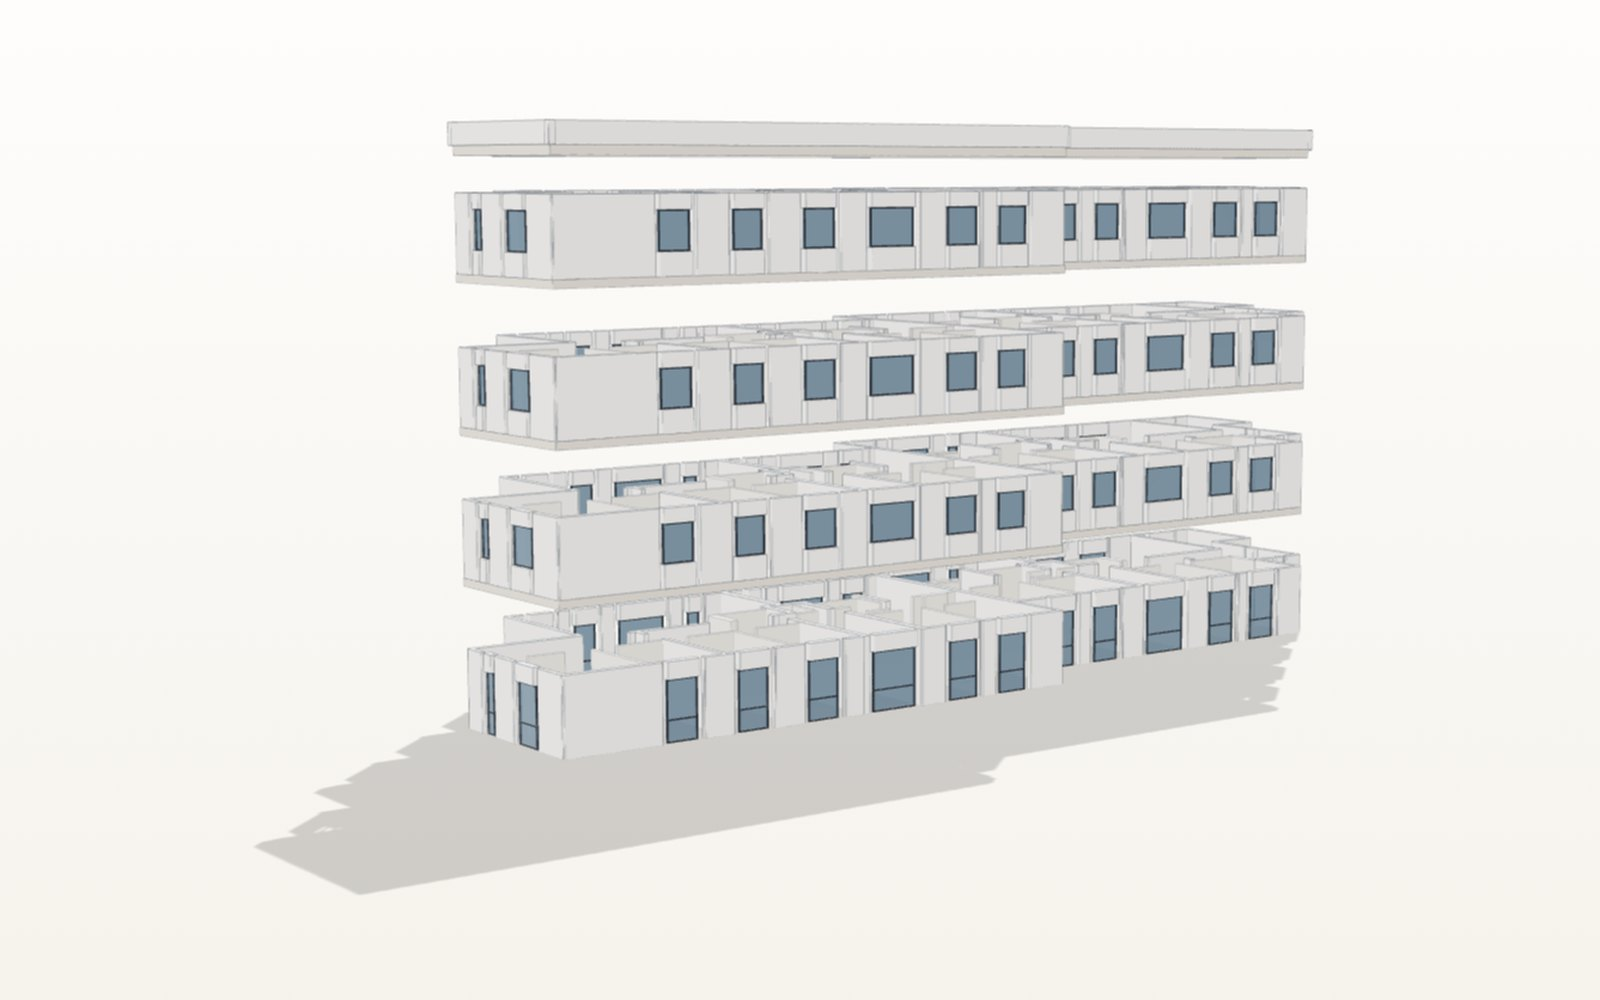
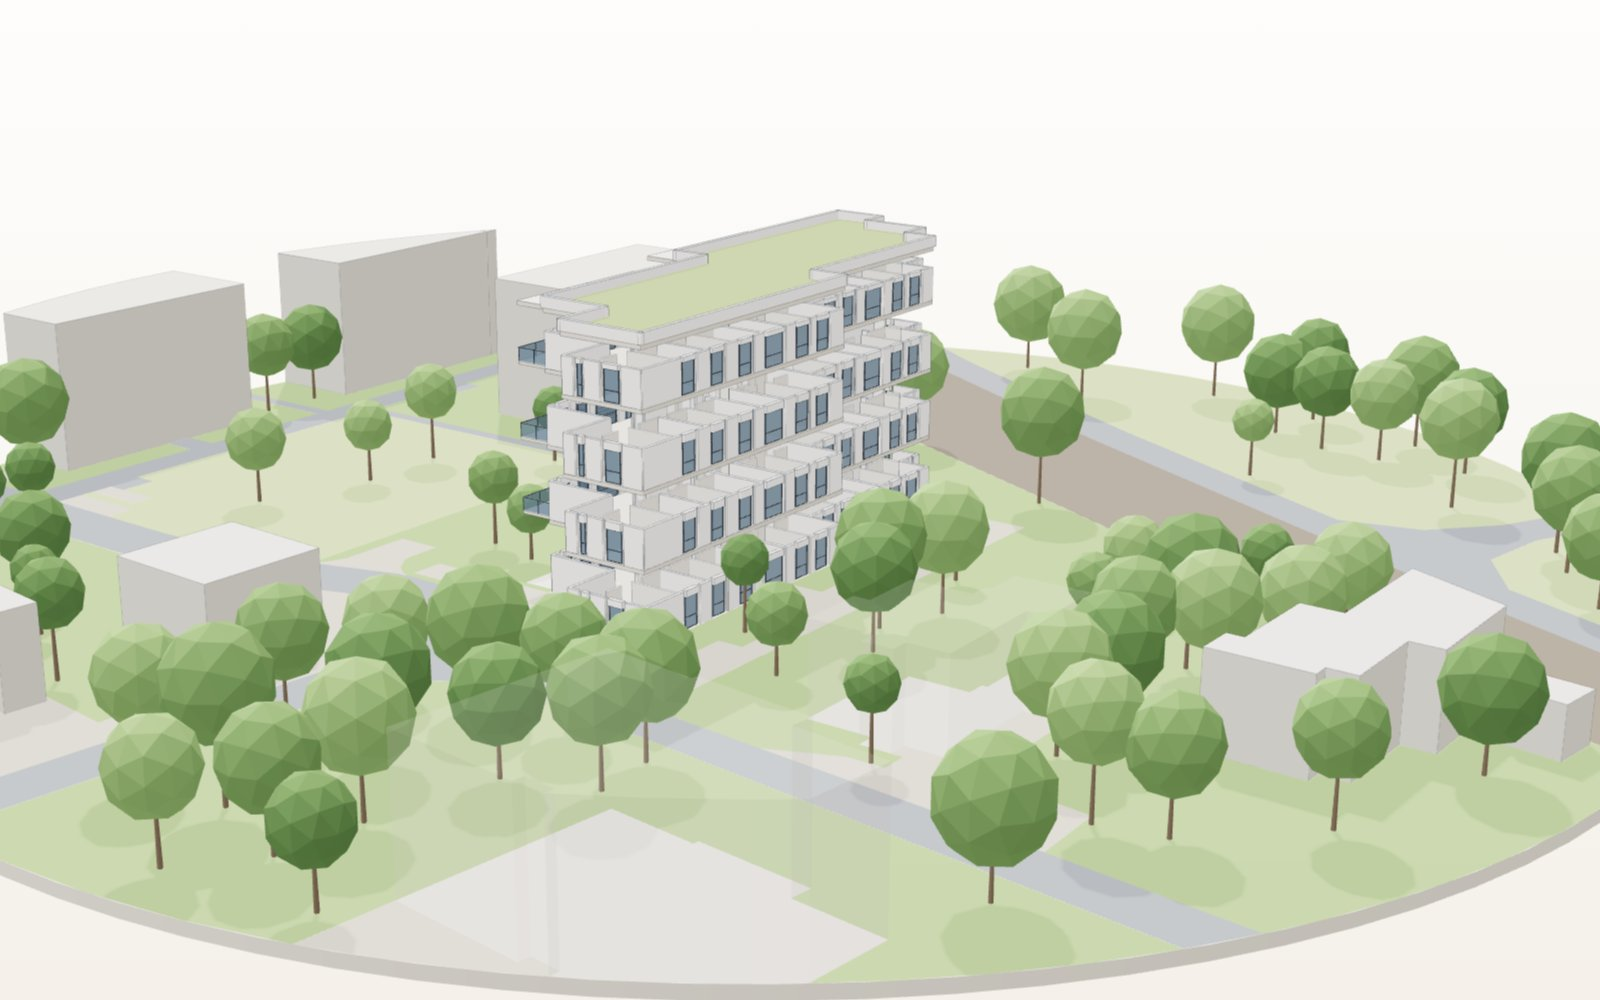
A4 like A12 (heights, south balconies, green roof); Architektur shows A14
A4 gets the storey heights of Schnitt A-A 759 (2.78 m, roof +10.92),
room-height windows, the two south balcony groups with glass railings and
louvred storage towers (from Fassade Süd), the roof over the balconies and
the green roof. Project images are re-rendered with the surroundings.
Architektur: the viewer shows A14 again and the plan-to-building story uses
A4, so no model appears twice on the page; A12 is no longer shown.

Claude-Session: https://claude.ai/code/session_017iE6WV9ddRYZx5X7ewEkM9

diff --git a/src/pages/ArchitekturPage.jsx b/src/pages/ArchitekturPage.jsx
@@ -47,7 +47,7 @@ const ArchitekturPage = () => {
       />
 
       {/* ── Vom Plan zum Gebäude (3D, scroll-driven) ─────────────── */}
-      <BlueprintBuilding />
+      <BlueprintBuilding modelId="a4" />
 
       {/* ── Leistungen grid ─────────────────────────────────────── */}
       <section className="py-20 md:py-24">
@@ -119,7 +119,7 @@ const ArchitekturPage = () => {
       </section>
 
       {/* ── Interaktive Modelle (A14 + A12) ─────────────────────── */}
-      <Model3DSection ids={['a12', 'a4']} eyebrow="Weitere Projekte in 3D" title="Modelle aus unseren Plänen" className="bg-white" />
+      <Model3DSection ids={['a14']} eyebrow="N's Hotel in 3D" title="Aus unseren Plänen" className="bg-white" />
 
       {/* ── Projekte ─────────────────────────────────────────────── */}
       <section className="surface-warm py-20 md:py-24">

diff --git a/src/components/ProjectData.js b/src/components/ProjectData.js
@@ -74,7 +74,7 @@ export const projectsData = [
     fullDescription: 'Der Wohnkomplex an der Allmendstrasse 4-4A in Kerzers umfasst mehrere moderne Mehrfamilienhäuser mit einer Vielzahl von Mietwohnungen. Jede Wohnung ist auf Komfort und Lebensqualität ausgelegt, mit offenen Wohnbereichen, grossen Fenstern und privaten Aussenbereichen wie Balkonen oder Terrassen. Die nachhaltige Bauweise und die zentrale Lage machen es zu einem attraktiven Wohnort.',
     coverImage: '/images/projekte/a4-gesamt.jpg',
     gallery: [
-      { type: 'image', url: '/images/projekte/a4-gesamt.jpg', alt: '3D-Modell aus den Ausführungsplänen' },
+      { type: 'image', url: '/images/projekte/a4-gesamt.jpg', alt: '3D-Modell aus den Ausführungsplänen, mit Umgebung' },
       { type: 'image', url: '/images/projekte/a4-explosion.jpg', alt: '3D-Modell – Geschosse in der Explosionsansicht' },
     ],
     features: ['Moderne Architektur', 'Hochwertiger Ausbau', 'Zentrale Lage', 'Mietwohnungen'],

diff --git a/src/data/projectsStore.js b/src/data/projectsStore.js
@@ -1,7 +1,7 @@
 import { projectsData as staticProjects, categories as staticCategories } from '@/components/ProjectData';
 
 // Bump the key whenever ProjectData.js changes so browsers drop their cached copy.
-const KEY = 'ha_projects_v4';
+const KEY = 'ha_projects_v5';
 
 function buildSeed() {
   return staticProjects.map((p, i) => ({
